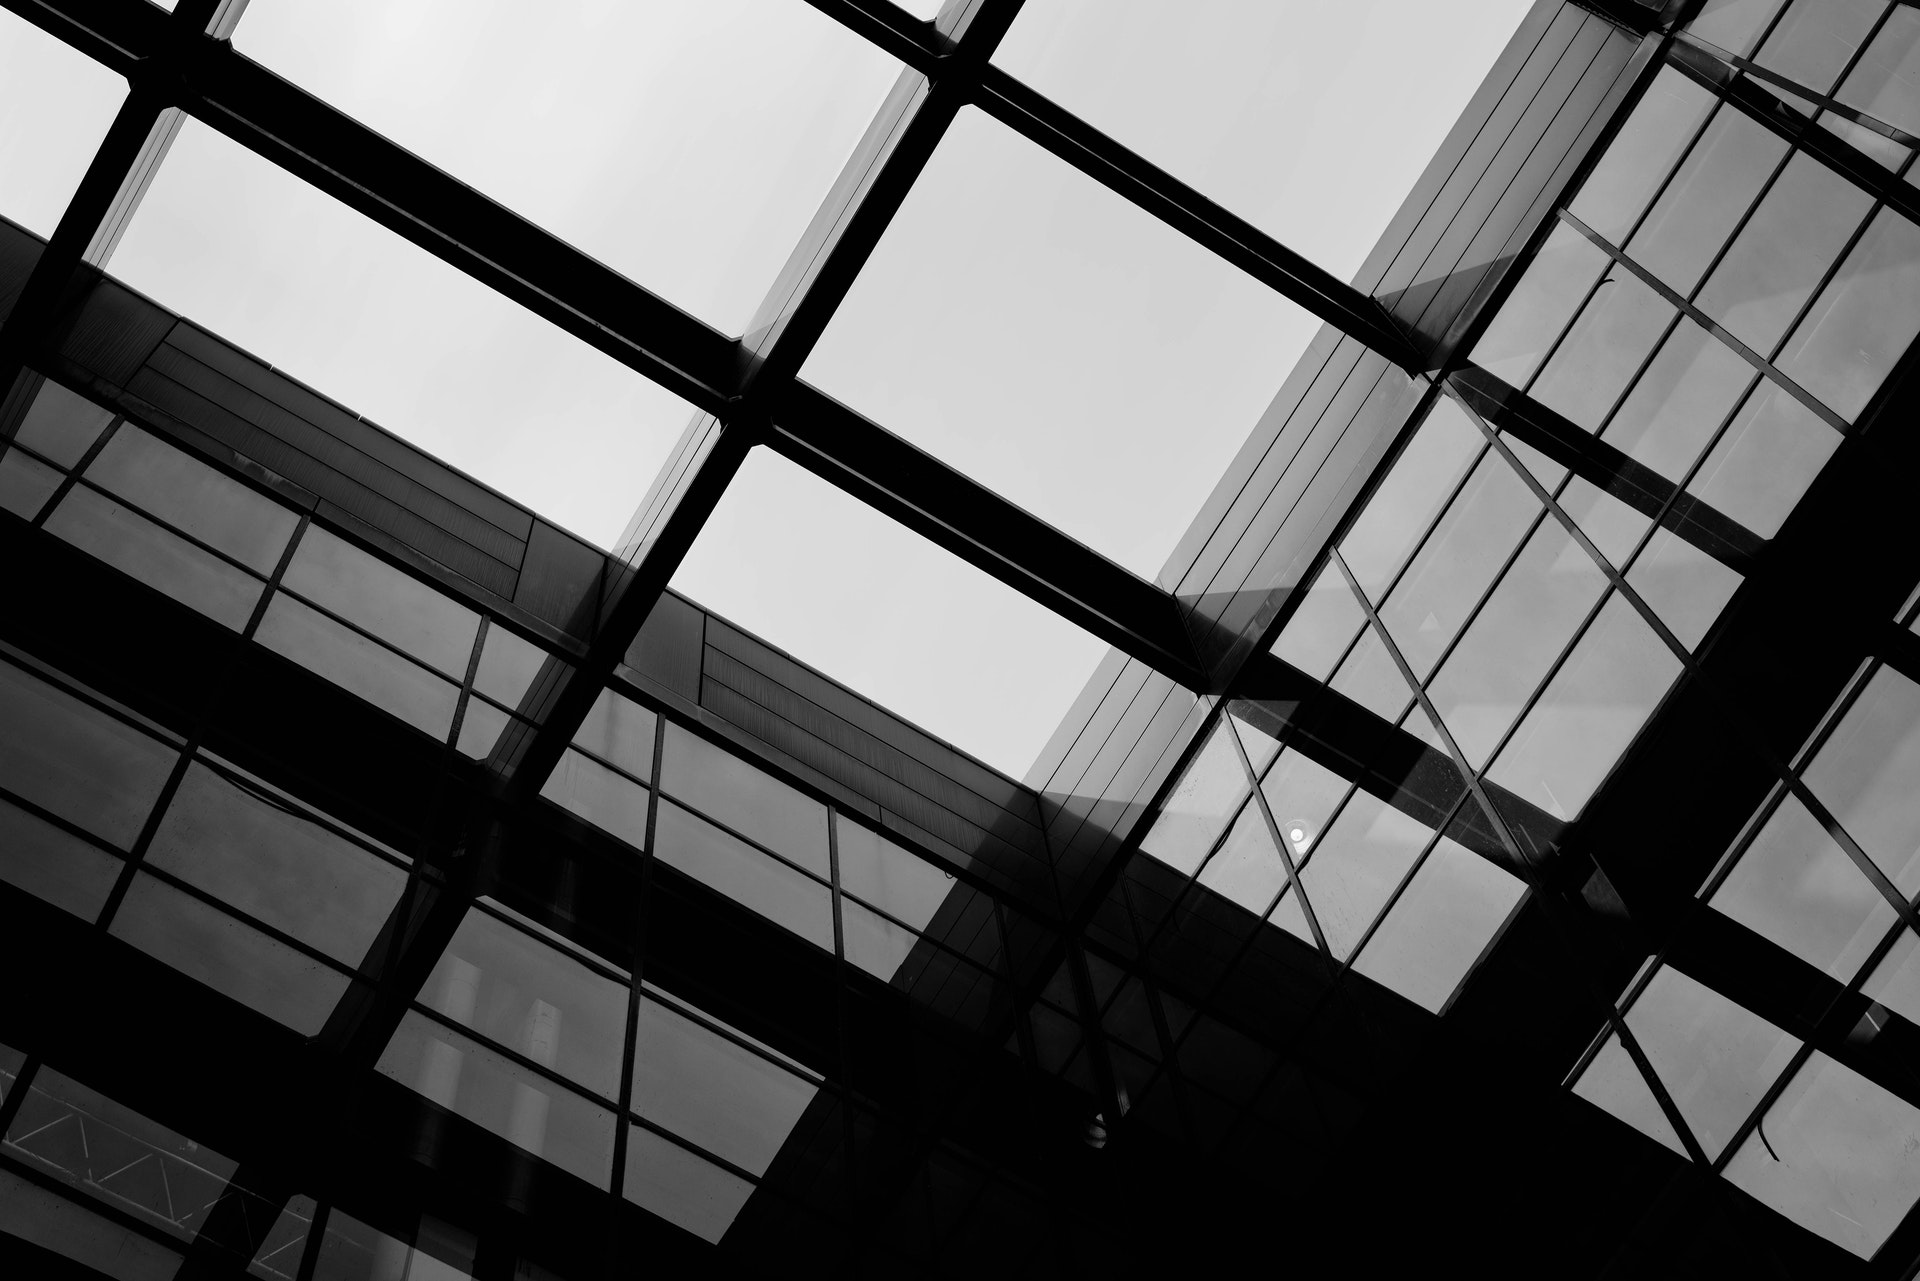
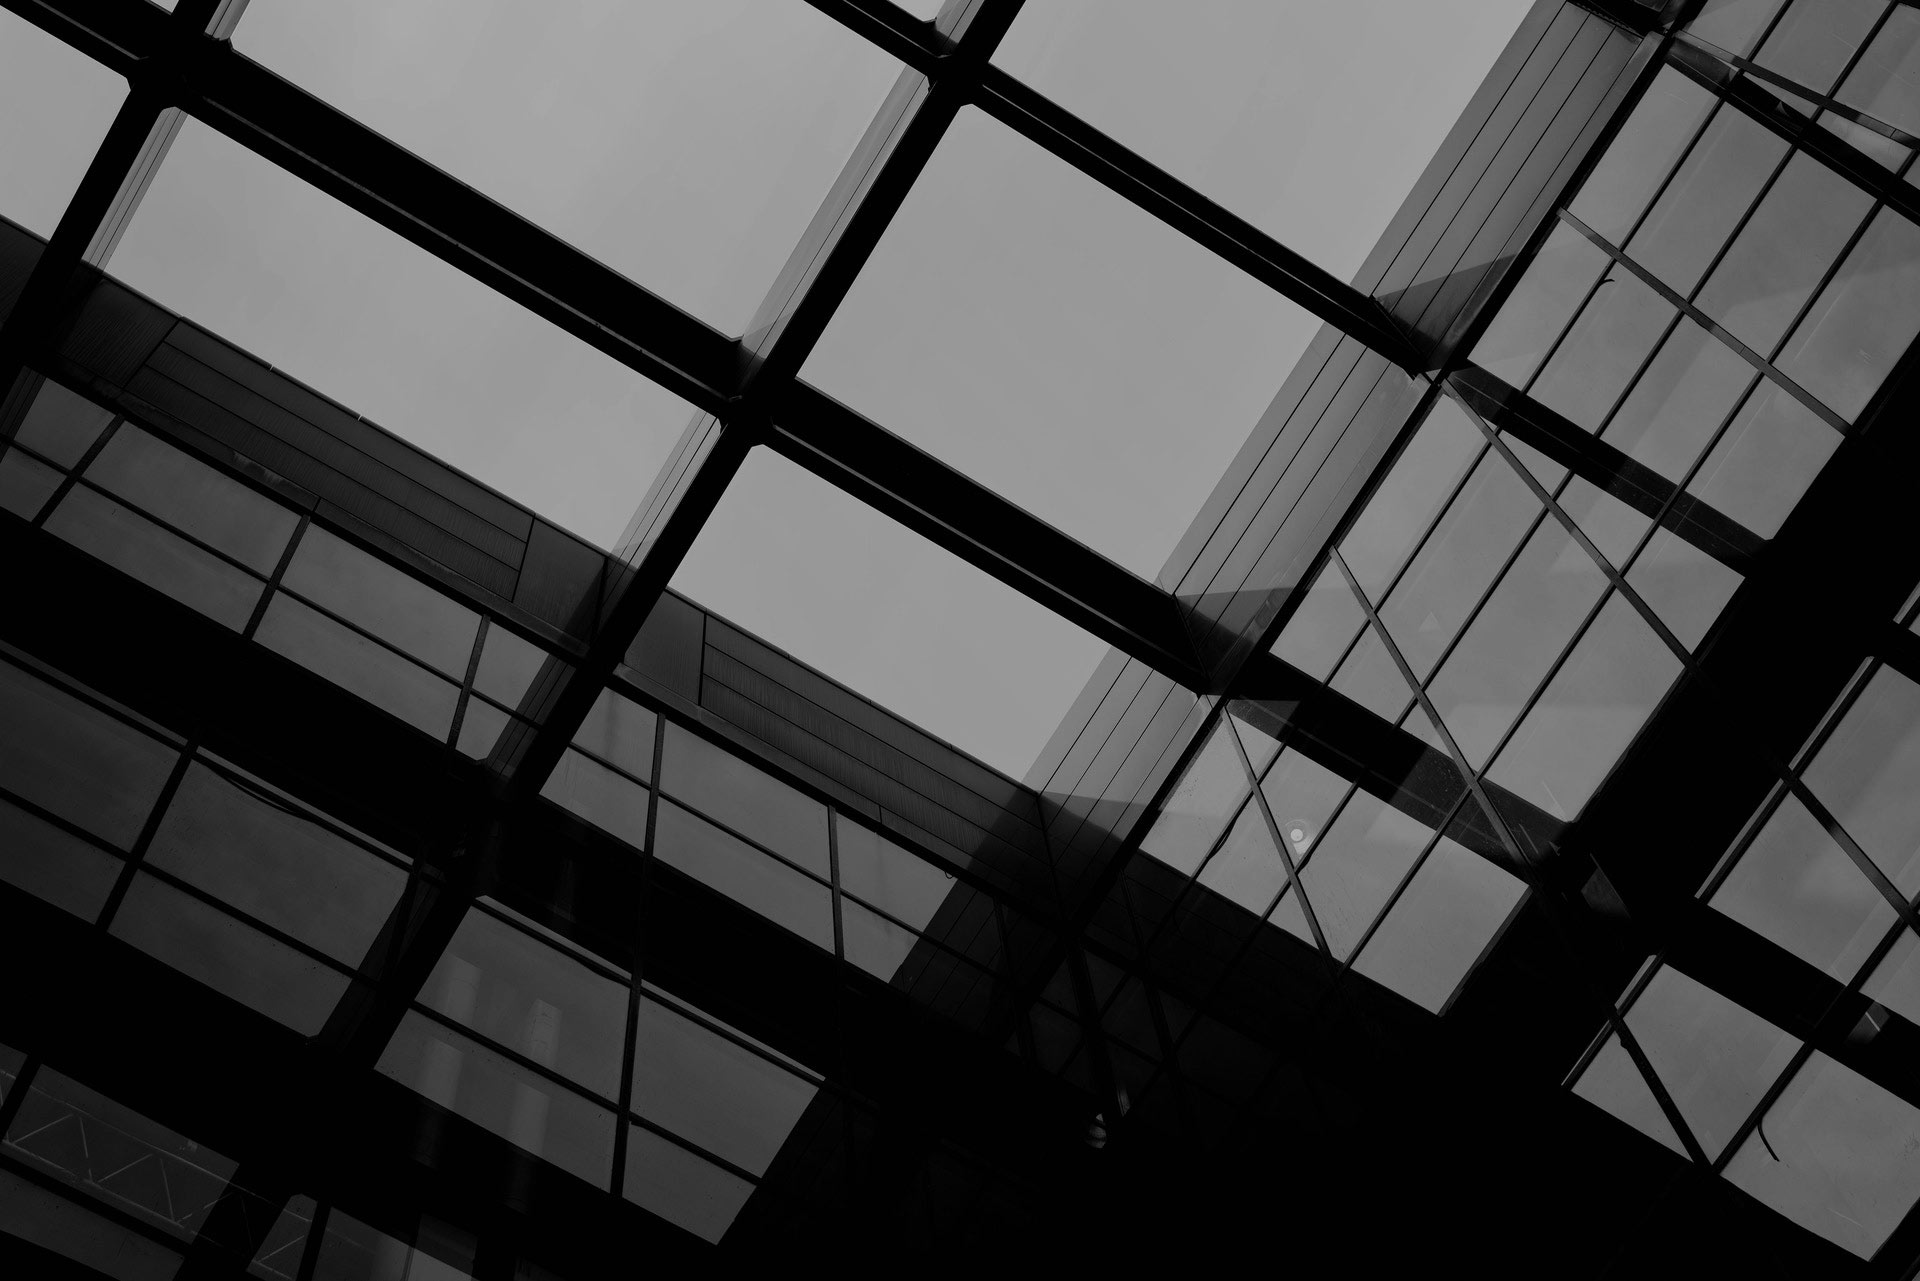
sort of finished (responsive too)

diff --git a/index.html b/index.html
@@ -1,0 +1,58 @@
+<!DOCTYPE html>
+<html lang="en">
+
+<head>
+    <meta charset="UTF-8">
+    <meta name="viewport" content="width=device-width, initial-scale=1.0">
+    <meta name="description"
+    content="A simple template for your kickass app/product/startup/whatever until it launches." />
+    <meta name="keywords" content="html5, css3, responsive, website template" />
+    <meta name="apple-mobile-web-app-title" content="dace code" />
+    <meta property="og:site_name" content="dace code" />
+    <meta property="og:type" content="article" />
+    <meta property="og:locale" content="en_US" />
+    <meta property="og:title" content="Coming soon by Dace Code" />
+    <meta property="og:image" content="" />
+    <meta property="og:description"
+    content="A simple template for your kickass app/product/startup/whatever until it launches." />
+    <meta property="og:url" content="" />
+    <link rel="icon" href="/assets/icons/favicon.ico" type="image/x-icon" />
+    <title>Coming Soon</title>
+    <link rel="stylesheet" href="assets/css/style.css">
+    <script src="https://kit.fontawesome.com/2046d9215b.js" crossorigin="anonymous"></script>
+</head>
+
+<body>
+    <div class="container">
+        <h1>Coming Soon</h1>
+        <p class="lead">
+            Lorem ipsum dolor sit, amet consectetur adipisicing elit. Eveniet ipsam nesciunt laborum!
+        </p>
+    </div>
+    <div class="newsletter">
+        <form action="#" method="#">
+            <label for="email">E-mail</label>
+            <input type="email" name="email" id="email" placeholder="E-mail Addresss here">
+            <input type="submit" value="submit">
+        </form>
+    </div>
+   
+    <footer>
+        <div class="social">
+            <a href="#" target="_blank" rel="noopener noreferrer"><i class="fab fa-facebook"></i></a>
+            <a href="#" target="_blank" rel="noopener noreferrer"><i class="fab fa-twitter"></i></a>
+            <a href="#" target="_blank" rel="noopener noreferrer"><i class="fab fa-instagram"></i></a>
+            <a href="#" target="_blank" rel="noopener noreferrer"><i class="fab fa-github"></i></a>
+            <a href="#" target="_blank" rel="noopener noreferrer"></a>
+        </div>
+        <!-- <br> -->
+        &copy; Untitled 2020. <span>
+
+            Image Credit:<a
+            href="https://www.pexels.com/photo/architecture-black-and-white-building-glass-149369/"
+            class="link">Pexels</a>
+        </span>
+    </footer>
+</body>
+
+</html>

diff --git a/assets/css/style.css b/assets/css/style.css
@@ -1,0 +1,77 @@
+@import url('https://fonts.googleapis.com/css2?family=Lato&display=swap');
+:root {
+    --greyish: #60686E;
+    --greyish: #b5b5b5;
+    --white: #ffffff;
+    --green: #1FCAA7;
+    --greenish:#1ca085;
+    --dark: #202C32;
+    --darkish:#202c32b7;
+  }
+*{
+    padding: 0;
+    margin: 0;
+    box-sizing: border-box;
+}
+h1, h2, h3, h4, h5, h6, p{
+    margin: 0 0 0.5em 0;
+}
+body{
+    font-family: 'Lato', sans-serif;
+    font-size: 18px;
+    background: url('../img/bg.jpg') center center no-repeat;
+    margin-top: 25vh;
+    margin-left: 5vw;
+    color: var(--white);
+}
+.lead{
+    color: var(--white);
+}
+.newsletter{
+    margin: 2.5em 0;
+}
+label{
+    display: none;
+}
+input{
+    padding: 1.2em;
+    border: none;
+}
+input[type="email"]{
+    background-color: transparent;
+    background-color: var(--darkish);
+    border: none;
+}
+input[type="email"]:active, input[type="email"]:focus{
+    background-color: var(--dark);
+    outline: 1px solid var(--green);
+}
+input[type="submit"]{
+    background-color: var(--green);
+    color: var(--white);
+    cursor: pointer;
+    outline: none;
+}
+input[type="submit"]:hover{
+    background-color: var(--greenish);
+}
+
+footer{
+    color: var(--white);
+}
+.social{
+    margin-bottom: 0.8em;
+}
+footer a, .social a{
+    color: var(--greyish);
+    text-decoration: none;
+    padding: 0 5px;
+    font-size: 1.4em;
+}
+.social a:hover{
+    color: var(--green);
+}
+footer span{
+    color: var(--greyish);
+    font-size: 0.6em;
+}
